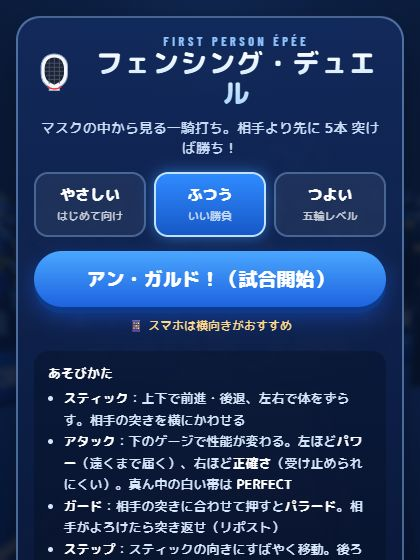
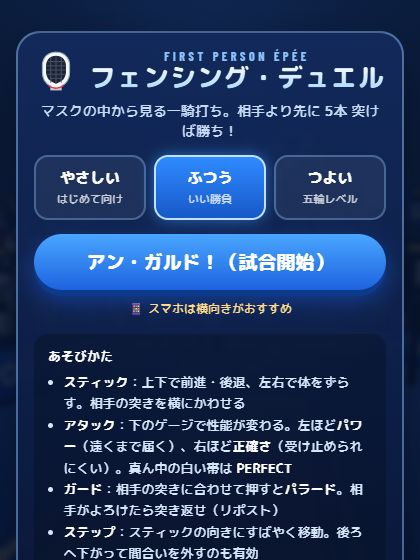
自動公開 / 更新: フェンシング・デュエル

diff --git a/apps/fencing/index.html b/apps/fencing/index.html
@@ -107,7 +107,7 @@ button:focus-visible{outline:3px solid var(--gold);outline-offset:2px}
 #gpop.show{opacity:1;transition:none}
 
 @media (orientation:portrait){
-  .gauge{width:56vw;bottom:calc(max(14px,env(safe-area-inset-bottom)) + clamp(120px,32vmin,200px) + 8vmin)}
+  .gauge{width:66vw;bottom:calc(max(14px,env(safe-area-inset-bottom)) + clamp(64px,16.5vmin,112px) * 2 + clamp(72px,19vmin,128px) + 10vmin)}
   .pl{padding-right:1.4vmin}
   .race{top:calc(max(8px,env(safe-area-inset-top)) + clamp(56px,16vmin,110px))}
 }
@@ -133,7 +133,7 @@ button:focus-visible{outline:3px solid var(--gold);outline-offset:2px}
   background:linear-gradient(180deg,rgba(18,42,92,.92),rgba(8,20,50,.94));border:2px solid rgba(150,200,255,.45);box-shadow:0 20px 60px rgba(0,0,0,.5)}
 .logo{display:flex;align-items:center;justify-content:center;gap:12px}
 .logo svg{width:clamp(40px,10vmin,64px);height:auto}
-h1{margin:0;font-weight:800;font-size:clamp(24px,6.5vmin,42px);line-height:1.1;letter-spacing:.03em;
+h1{margin:0;font-weight:800;font-size:clamp(19px,min(6.2vw,7.5vh),40px);white-space:nowrap;line-height:1.1;letter-spacing:.03em;
   background:linear-gradient(180deg,#fff,#a9d6ff);-webkit-background-clip:text;background-clip:text;color:transparent}
 .en{font-family:"Barlow Condensed",sans-serif;font-weight:700;letter-spacing:.3em;color:#8fc3ff;font-size:clamp(12px,2.8vmin,16px)}
 .lead{color:#c7dbf7;font-size:14px;margin:10px 0 14px}
@@ -428,9 +428,9 @@ const crowdBase = [];
     const sc = rand(.9, 1.1);
     m.compose(new THREE.Vector3(p[0], p[1], p[2]), q, new THREE.Vector3(sc, sc, sc));
     crowdB.setMatrixAt(i, m); crowdH.setMatrixAt(i, m);
-    crowdB.setColorAt(i, shirtCols[(Math.random() * shirtCols.length) | 0]);
+    crowdB.setColorAt(i, shirtCols[(Math.random() * shirtCols.length) | 0].clone().multiplyScalar(rand(.35, .6)));
     const hc = Math.random() < .5 ? skinCols[(Math.random() * skinCols.length) | 0] : new THREE.Color(0x2a2220);
-    crowdH.setColorAt(i, hc);
+    crowdH.setColorAt(i, hc.clone().multiplyScalar(.6));
     crowdBase.push({ p, q: q.clone(), sc, ph: Math.random() * 6.28 });
   });
 }
@@ -567,7 +567,7 @@ function makeFencer(stripe) {
   const neck = new THREE.Mesh(new THREE.CylinderGeometry(.055, .06, .1, 10), suitM); neck.position.y = .58; torso.add(neck);
   const head = new THREE.Group(); head.position.y = .7; torso.add(head);
   const back = new THREE.Mesh(new THREE.SphereGeometry(.125, 20, 14), suitM); back.scale.set(1, 1.12, 1.05); back.position.z = -.02; back.castShadow = true; head.add(back);
-  const front = new THREE.Mesh(new THREE.SphereGeometry(.12, 22, 16, -Math.PI * .42, Math.PI * .84, .12, Math.PI * .78), maskMeshM);
+  const front = new THREE.Mesh(new THREE.SphereGeometry(.12, 22, 16, Math.PI * .08, Math.PI * .84, .12, Math.PI * .78), maskMeshM);
   front.scale.set(1.04, 1.2, 1); front.position.z = .035; head.add(front);
   const rim = new THREE.Mesh(new THREE.TorusGeometry(.12, .012, 6, 24, Math.PI * 1.1), suitShade);
   rim.rotation.set(0, Math.PI / 2, Math.PI / 2 + .3); rim.scale.set(1.1, 1.25, 1); rim.position.set(0, .0, .04); head.add(rim);
@@ -579,7 +579,7 @@ function makeFencer(stripe) {
   const elR = limb(.27, .047, suitM); shR.userData.end.add(elR);
   const gloveR = new THREE.Mesh(new THREE.SphereGeometry(.052, 12, 10), shoeM); elR.userData.end.add(gloveR);
   const sword = makeSword(.88); sword.rotation.order = 'XYZ'; elR.userData.end.add(sword);
-  const tipGlow = glowSprite(0xff2040, .0); sword.userData.tip.add(tipGlow);
+  const tipGlow = glowSprite(0xff4a1a, .0); sword.userData.tip.add(tipGlow);
 
   const shL = limb(.29, .052, suitM); shL.position.set(.2, .5, 0); shL.rotation.order = 'YXZ'; torso.add(shL);
   const elL = limb(.26, .047, suitM); shL.userData.end.add(elL);
@@ -609,12 +609,13 @@ function poseFencer(f, p, t) {
   const span = (a, b) => .43 * Math.cos(a) + .45 * Math.cos(a + b);
   f.hips.position.y = Math.min(span(fh, fk), span(bh, bkn)) + .12 + bob;
   f.hips.position.z = L * .12;
-  f.torso.rotation.set(.08 + .3 * L - .22 * W - K * .5, .5 - .25 * L, 0);
+  const lean = .08 + .3 * L - .22 * W - K * .5;
+  f.torso.rotation.set(lean, .5 - .25 * L, 0);
   f.head.rotation.set(-.05 - .25 * L + .15 * W, -.4 + .2 * L, 0);
   // sword arm (compensate torso twist)
-  f.shR.rotation.set(-(1.1 + .42 * E) + .6 * W - .25 * R, -.42 + .22 * L + R * .5, -.08 + R * .35);
+  f.shR.rotation.set(-(1.12 + .4 * E) - lean * .9 + .6 * W - .25 * R, -.42 + .22 * L + R * .5, -.08 + R * .35);
   f.elR.rotation.set(-.62 * (1 - E) - .7 * W, 0, 0);
-  f.sword.rotation.set(-.18 * (1 - E) + .2 * W, 0, R * .9);
+  f.sword.rotation.set(-.12 * (1 - E) - .55 * E + .2 * W, 0, .14 * (1 - W) + R * .9);
   // back arm
   f.shL.rotation.set(.45 - .7 * L, 0, 1.15 - .6 * L);
   f.elL.rotation.set(0, 0, 1.35 - 1.2 * L);
@@ -1002,8 +1003,8 @@ function startGame() {
   D = DIFF[diffKey];
   G.mode = 'play'; G.score = [0, 0]; G.time = BOUT_TIME; G.overtime = false;
   G.stats = { atk: 0, hit: 0, parry: 0, perfect: 0, dodge: 0 };
-  lampOn = 0;
-  $('#time').classList.remove('ot');
+  lampOn = 0; G.lastSec = -1;
+  $('#time').classList.remove('ot'); $('#time').textContent = fmtTime(BOUT_TIME);
   $('#title').hidden = true; $('#result').hidden = true; $('#pause').hidden = true; $('#hud').hidden = false;
   if (murmur) murmur.gain.setTargetAtTime(.035, AC.currentTime, .5);
   updateScoreUI();
@@ -1112,7 +1113,7 @@ function render() {
   } else {
     poseFencer(opp, { lunge: O.lungeVis, ext: Math.max(O.lungeVis, O.st === 'stunned' ? .3 : 0), windup: O.windVis, parry: O.parryVis, recoil: O.recoil }, t);
   }
-  opp.tipGlow.scale.setScalar(O.windVis > 0 ? .1 + .12 * O.windVis + .04 * Math.sin(t * 40) : 0);
+  opp.tipGlow.scale.setScalar(O.windVis > 0 ? .14 + .18 * O.windVis + .05 * Math.sin(t * 40) : 0);
   // ---- camera ----
   let cx = P.x, cz = P.z, cy = 1.6;
   if (G.mode === 'title') {
